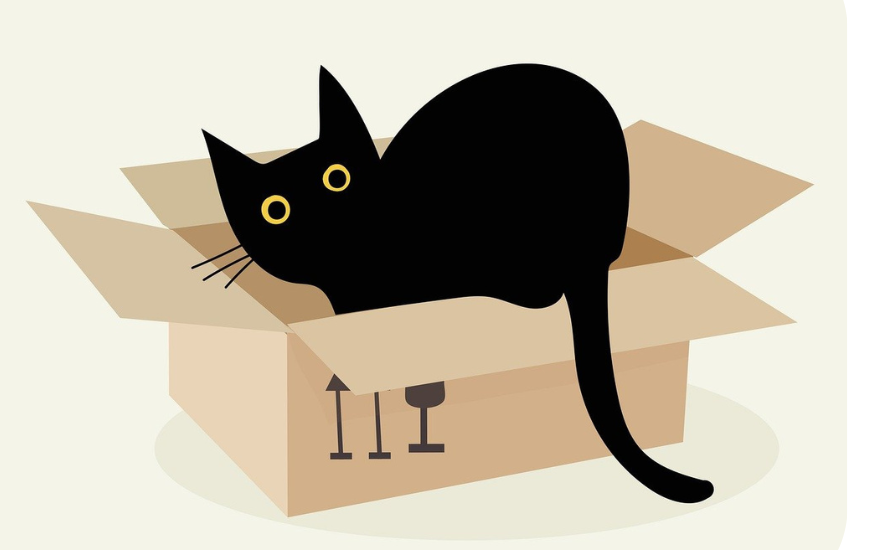
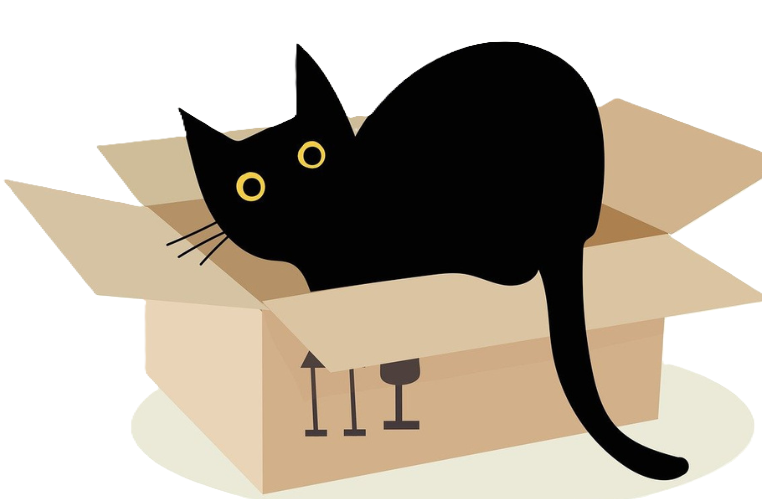
image added to modal

diff --git a/contributors.html b/contributors.html
@@ -33,7 +33,8 @@
         <div id="pictureModal" class="modal">
             <div class="picture">
                 <span id="closeModal" class="close">&times;</span>
-                <h2>Thank You for Visiting, Please Consider Adoption for Your Next Pet</h2>/
+                <h2>Thank You for Visiting, Please Consider Adoption for Your Next Pet</h2>
+                <img src="/assets/images/CatBox.png"> 
             </div>
          </div>
 
@@ -56,8 +57,6 @@
                 modal.style.display = "none";
     }
 }
-
-
          </script>
        
     </footer>

diff --git a/assets/css/contributors.css b/assets/css/contributors.css
@@ -69,22 +69,30 @@ footer {
 }
 
 .picture {
-    background-image: url(/assets/images/CatBox.png);
+    background-color:rgb(52, 122, 122) ;
     margin: 20% auto;
     padding: 20px;
     border: 22px solid rgb(92, 9, 92) ;
     width: 100%;
     max-width: 800px;
     max-height: 800px;
+    
 }
 
 .close {
-    color: #2d0505;
+    color: black;
     font-size: 40px;
     font-weight: bold;
     position: absolute;
     top: 10px;
     right: 25px;
+}
+
+img {
+   max-width: 50%; 
+   max-height: auto;
+   
+
 }
 
 .close:hover,
